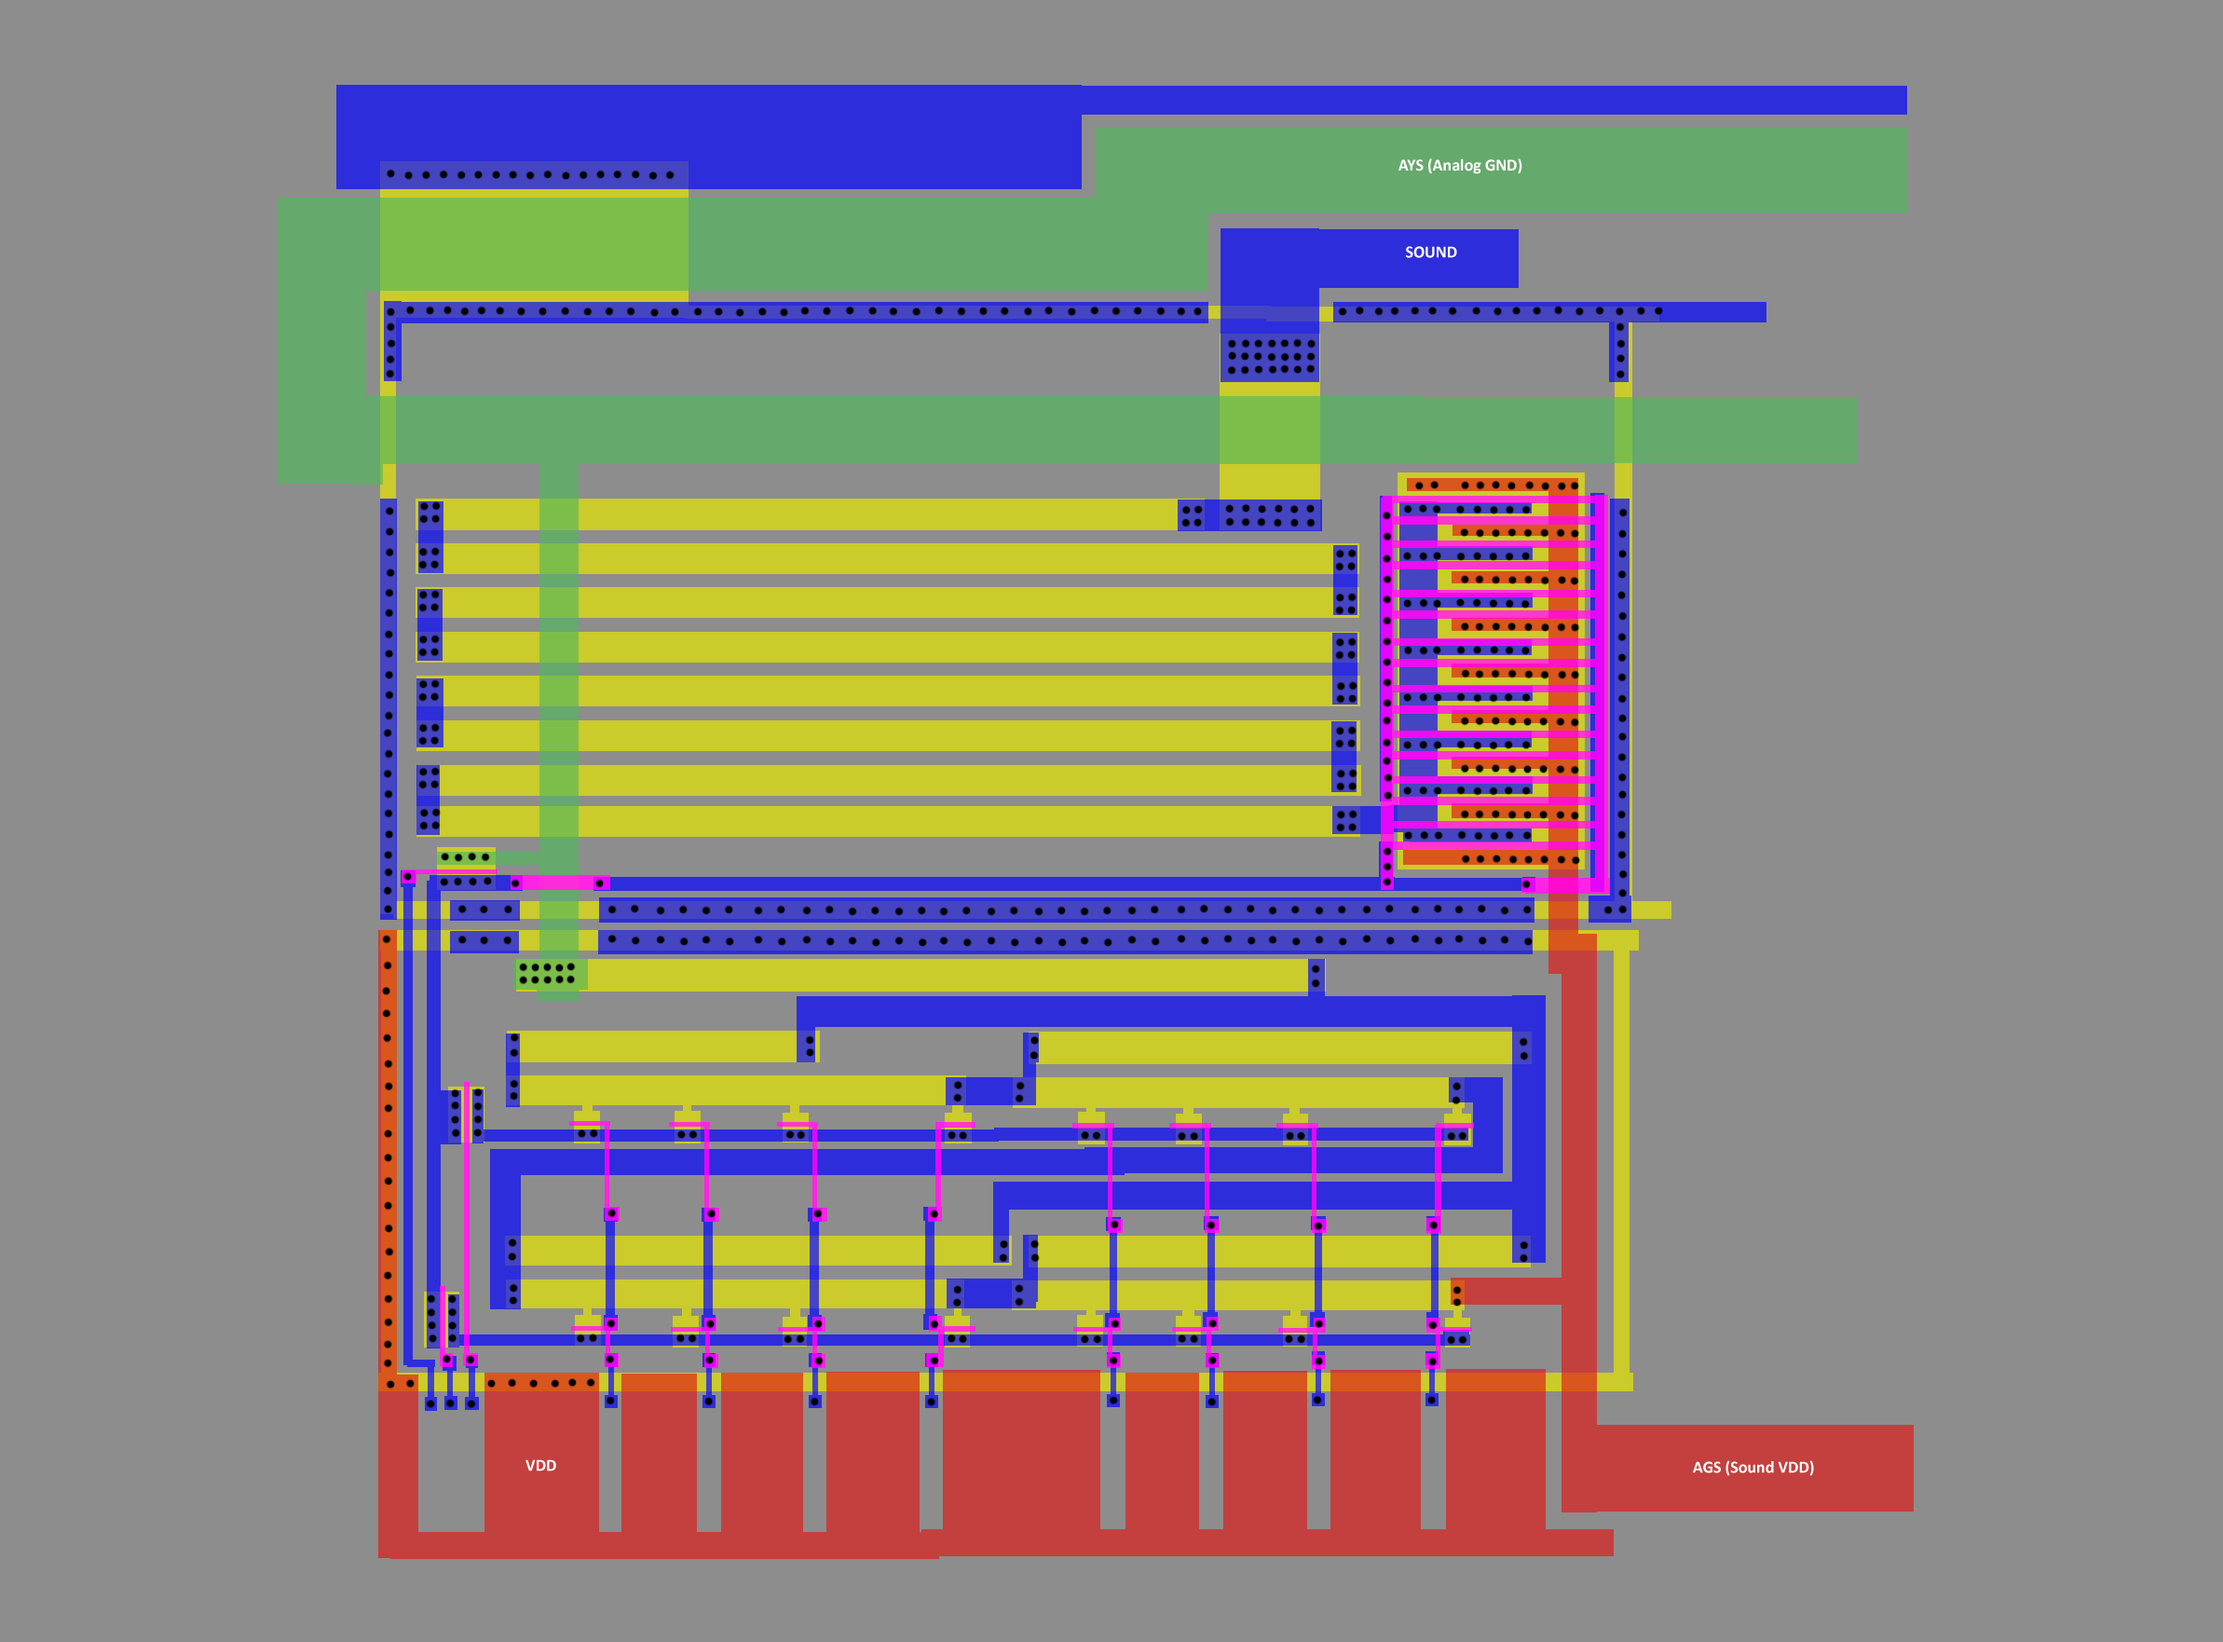
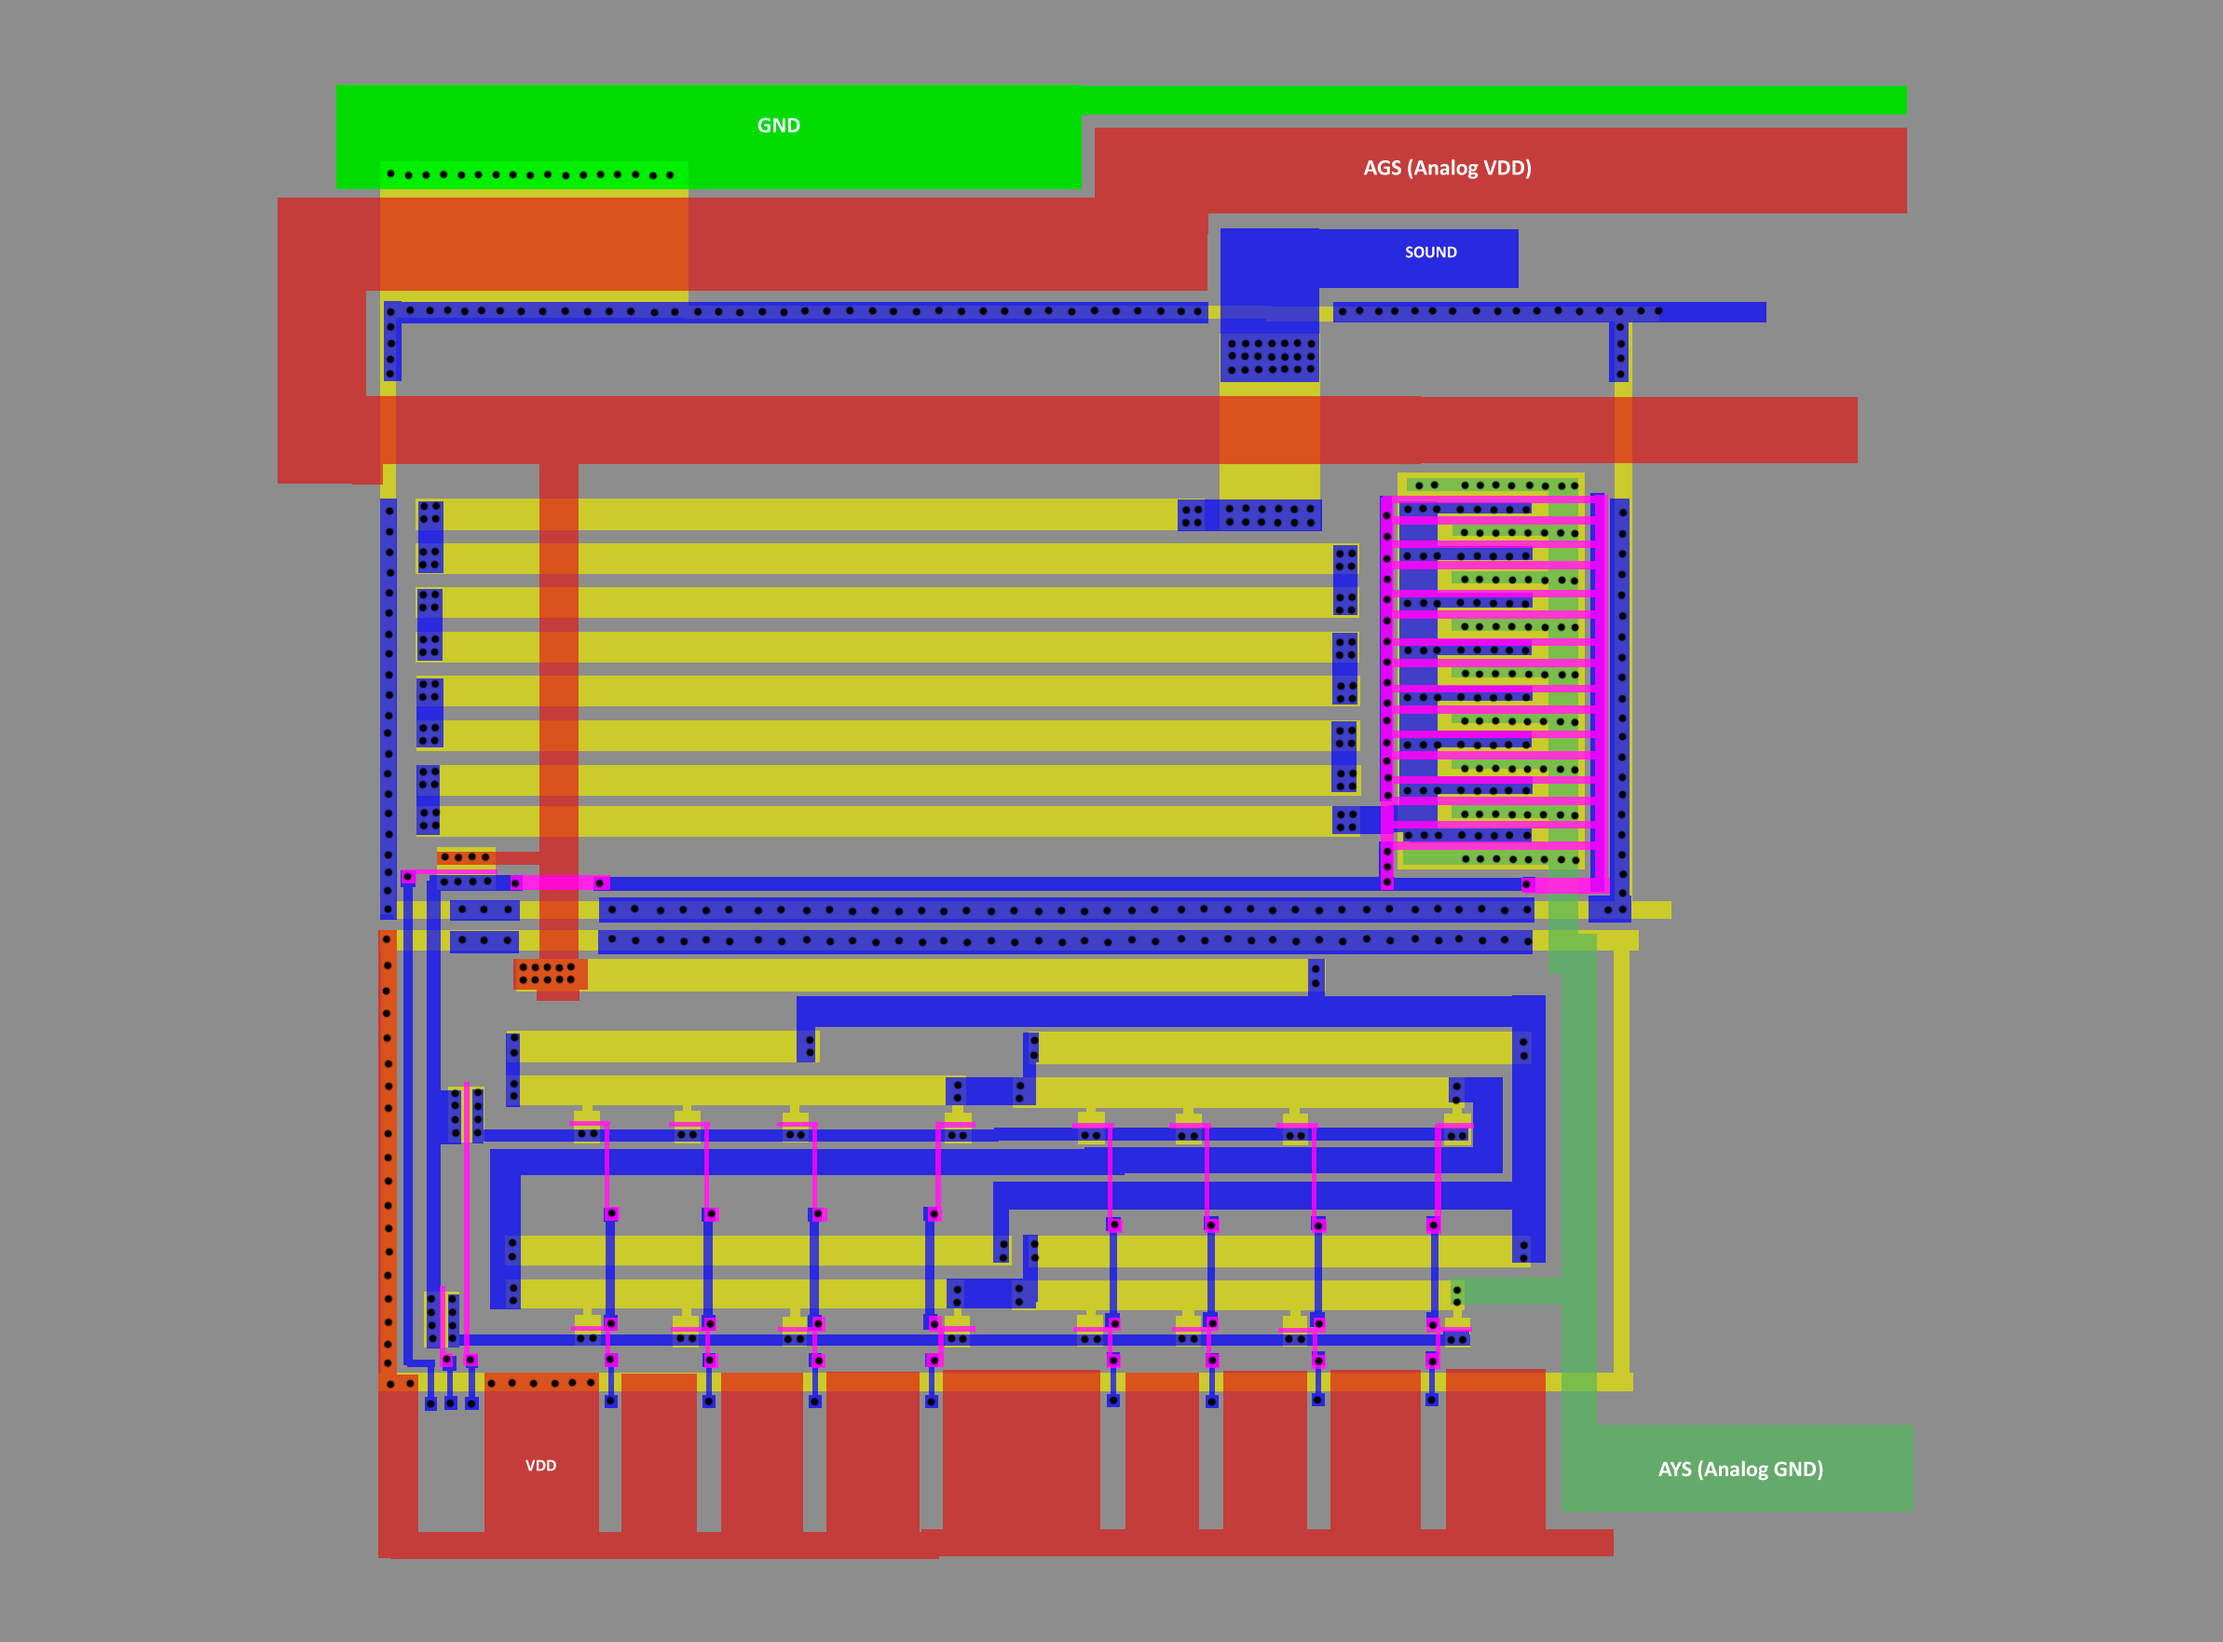
pads.md

Changed region(s): [[0.1241, 0.0312, 0.8684, 0.9364]]

diff --git a/pads.md b/pads.md
@@ -1,28 +1,34 @@
 # Контакты
 
 На изучаемом ошмётке VDP кроме аналоговых выходов PSG просматриваются идентичные схемы следующих контактов:
-- Контакт с 1 портом (двух видов, возможно различаются от Input / Output)
-- Контакт с 2 портами (возможно TriState Input или TriState Output)
-- Контакт с 3 портами (скорее всего Inout, для двунаправленных шин)
+- Контакт с 1 портом (двух видов, различаются от Input / Output)
+- Контакт с 2 портами (Inout)
+- Контакт с 3 портами (Inout + TriState)
 
 Понятно что у всех контактов группа симметрии S4 (вращение на произвольный угол в 90° и флип).
 
-TBD: Пока без схематики, просто коллекция типов.
+TBD: Пока без схематики, просто коллекция картинок.
 
 ## Порты рядом с PSG
 
-## Контакт с 1 портом БЕЗ резистора
+![PSG_Pads](/imgstore/PSG_Pads.png)
+
+## Терминал Input
 
 ![image](https://user-images.githubusercontent.com/5828819/175827693-8ca7febe-4233-4f3e-8266-8d5e6087e2ec.png)
 
-## Контакт с 1 портом С резистором
+## Терминал Output
 
 ![image](https://user-images.githubusercontent.com/5828819/177574039-d237de48-ed87-4b40-8b99-d4b56eced7de.png)
 
-## Контакт с 2 портами
+## Терминал Inout
+
+Для обычных двунаправленных I/O портов.
 
 ![image](https://user-images.githubusercontent.com/5828819/175827798-973f8c91-4d2e-4cb9-9d5c-150d283a7a7b.png)
 
-## Контакт с 3 портами
+## Терминал Inout+TriState
+
+Используется для шин, которые могут находится в третьем состоянии (`z`).
 
 ![image](https://user-images.githubusercontent.com/5828819/175827664-34e516d7-6bf2-417b-9c40-caddacd6148e.png)
